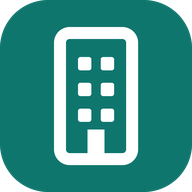
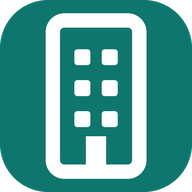
Ícono: la torre un 20 % más grande (en el Dock se veía chica)

diff --git a/src/ui/IconoTorre.tsx b/src/ui/IconoTorre.tsx
@@ -15,14 +15,20 @@ export const TORRE_ICONO = {
   puerta: { x: 14.6, y: 21.6, width: 2.8, height: 4.9 },
 } as const;
 
+/** La torre se dibuja un 20 % más grande que las medidas base (Miguel, 4-nov: en el Dock se veía chica). */
+export const TORRE_ESCALA = 1.2;
+
 export function IconoTorre({ className }: { className?: string }) {
   const { torre, ventanas, ventana, puerta } = TORRE_ICONO;
   return (
     <svg viewBox="0 0 32 32" className={className} aria-hidden="true">
       <rect width="32" height="32" rx="8" className="fill-brand" />
-      <rect {...torre} fill="none" className="stroke-on-brand" strokeWidth="2" />
-      {ventanas.map(([x, y]) => <rect key={`${x}-${y}`} x={x} y={y} width={ventana} height={ventana} rx="0.4" className="fill-on-brand" />)}
-      <rect {...puerta} className="fill-on-brand" />
+      {/* Un 20 % más grande que las medidas base, como los íconos de instalar (`ESCALA` en iconos-torre.py). */}
+      <g transform={`translate(16 16) scale(${TORRE_ESCALA}) translate(-16 -16)`}>
+        <rect {...torre} fill="none" className="stroke-on-brand" strokeWidth="2" />
+        {ventanas.map(([x, y]) => <rect key={`${x}-${y}`} x={x} y={y} width={ventana} height={ventana} rx="0.4" className="fill-on-brand" />)}
+        <rect {...puerta} className="fill-on-brand" />
+      </g>
     </svg>
   );
 }

diff --git a/scripts/marketing/iconos-torre.py b/scripts/marketing/iconos-torre.py
@@ -19,9 +19,11 @@ VENTANAS = [(13, 9.5), (16.8, 9.5), (13, 13.8), (16.8, 13.8), (13, 18.1), (16.8,
 VENTANA = 2.2
 PUERTA = (14.6, 21.6, 2.8, 4.9)
 SS = 8  # supermuestreo
+# La torre se dibuja un 20 % más grande que las medidas base (Miguel, 4-nov: en el Dock se veía chica al lado de los demás íconos).
+ESCALA = 1.2
 
 
-def dibujar(lado, *, esquinas=True, escala=1.0, trazo=2.0):
+def dibujar(lado, *, esquinas=True, escala=ESCALA, trazo=2.0):
     """Ícono de `lado` px. `escala` < 1 achica la torre dentro del cuadro (maskable). `trazo` en unidades de 32."""
     n = lado * SS
     im = Image.new('RGBA', (n, n), (0, 0, 0, 0))
@@ -55,8 +57,9 @@ def svg():
     ventanas = ''.join(f'<rect x="{vx}" y="{vy}" width="{VENTANA}" height="{VENTANA}" rx="0.4" fill="#fff"/>' for vx, vy in VENTANAS)
     px, py, pw, ph = PUERTA
     return (f'<svg xmlns="http://www.w3.org/2000/svg" viewBox="0 0 32 32"><rect width="32" height="32" rx="8" fill="#0f766e"/>'
+            f'<g transform="translate(16 16) scale({ESCALA}) translate(-16 -16)">'
             f'<rect x="{x}" y="{y}" width="{w}" height="{h}" rx="{r}" fill="none" stroke="#fff" stroke-width="2"/>{ventanas}'
-            f'<rect x="{px}" y="{py}" width="{pw}" height="{ph}" fill="#fff"/></svg>\n')
+            f'<rect x="{px}" y="{py}" width="{pw}" height="{ph}" fill="#fff"/></g></svg>\n')
 
 
 if __name__ == '__main__':
@@ -66,7 +69,7 @@ if __name__ == '__main__':
     dibujar(192).save('public/icon-192.png')
     dibujar(512).save('public/icon-512.png')
     dibujar(180, esquinas=False).convert('RGB').save('public/apple-touch-icon.png')
-    # Maskable: la zona segura es un círculo de radio 40 %; la torre (21 de alto) al 72 % entra holgada.
-    dibujar(192, esquinas=False, escala=0.72).convert('RGB').save('public/icon-maskable-192.png')
-    dibujar(512, esquinas=False, escala=0.72).convert('RGB').save('public/icon-maskable-512.png')
+    # Maskable: la zona segura es un círculo de radio 40 % (12,8 de 32); la media diagonal de la torre es ~12,1 × escala: hasta 1,05 entra entera.
+    dibujar(192, esquinas=False, escala=1.02).convert('RGB').save('public/icon-maskable-192.png')
+    dibujar(512, esquinas=False, escala=1.02).convert('RGB').save('public/icon-maskable-512.png')
     print('íconos de Torre generados en public/')

diff --git a/docs/HANDOFF.md b/docs/HANDOFF.md
@@ -4,6 +4,13 @@ Registro entre agentes de código (Claude Code, OpenCode, Cline…). Una entrada
 
 ---
 
+## 2026-11-04 — Ícono: la torre un 20 % más grande (Claude Code, Opus 5.5) — push: no
+
+- Miguel: «cuando lo copia al dock es muy pequeña la torre en comparación al logo». La torre se dibuja con escala 1,2 sobre las medidas base en `IconoTorre.tsx` (`TORRE_ESCALA`), `favicon.svg`, los PNG (`iconos-torre.py`, `ESCALA`; maskable 1,02 = lo máximo dentro de la zona segura) y el cierre de los videos. `og-torre.png` regenerado.
+- Gotcha: el Dock de macOS y los celulares guardan el ícono de la app instalada; hay que quitar la app y volver a instalarla para ver el nuevo.
+
+---
+
 ## 2026-11-04 — Avisos a departamentos elegidos y recordatorio a los morosos (Claude Code, Sonnet 5.5, rama `feat/avisos-elegidos`) — push: no
 
 Pedido de Miguel: «¿si la administradora quiere enviar un aviso el día del vencimiento y el depa no ha pagado… o un comunicado a algunos depas por WhatsApp, seleccionando el depa del block?» → «Sí, agrégalo».
